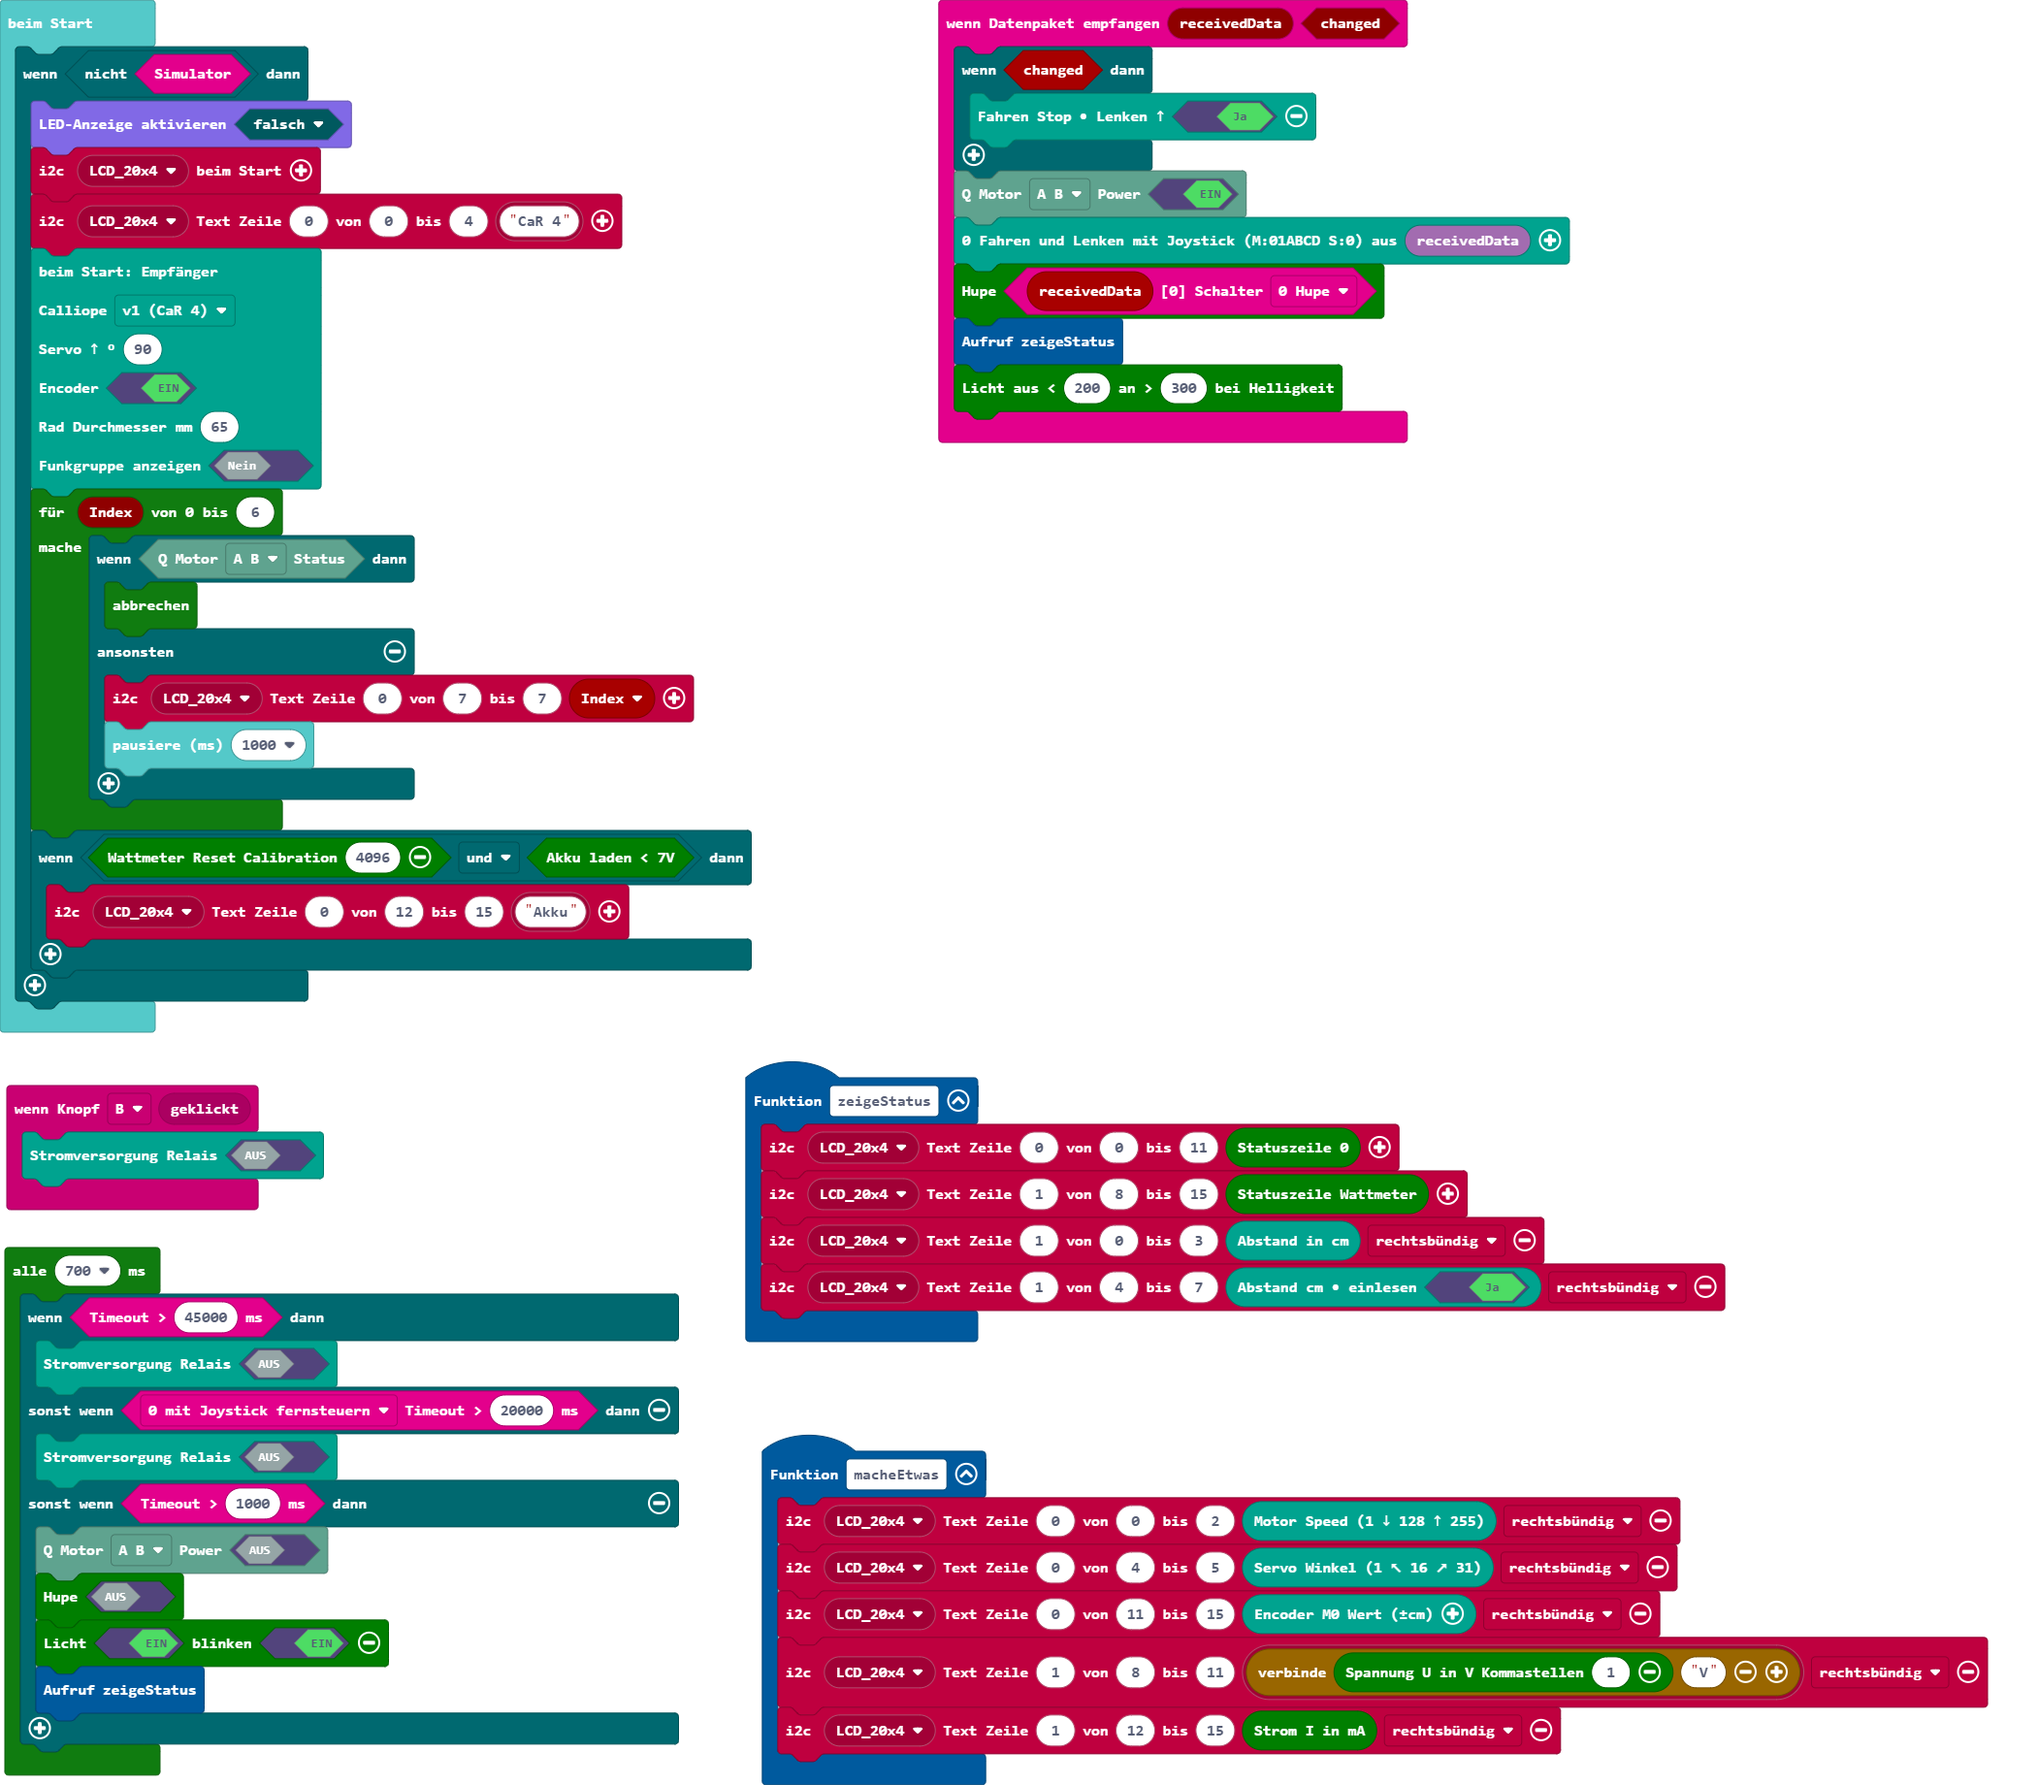
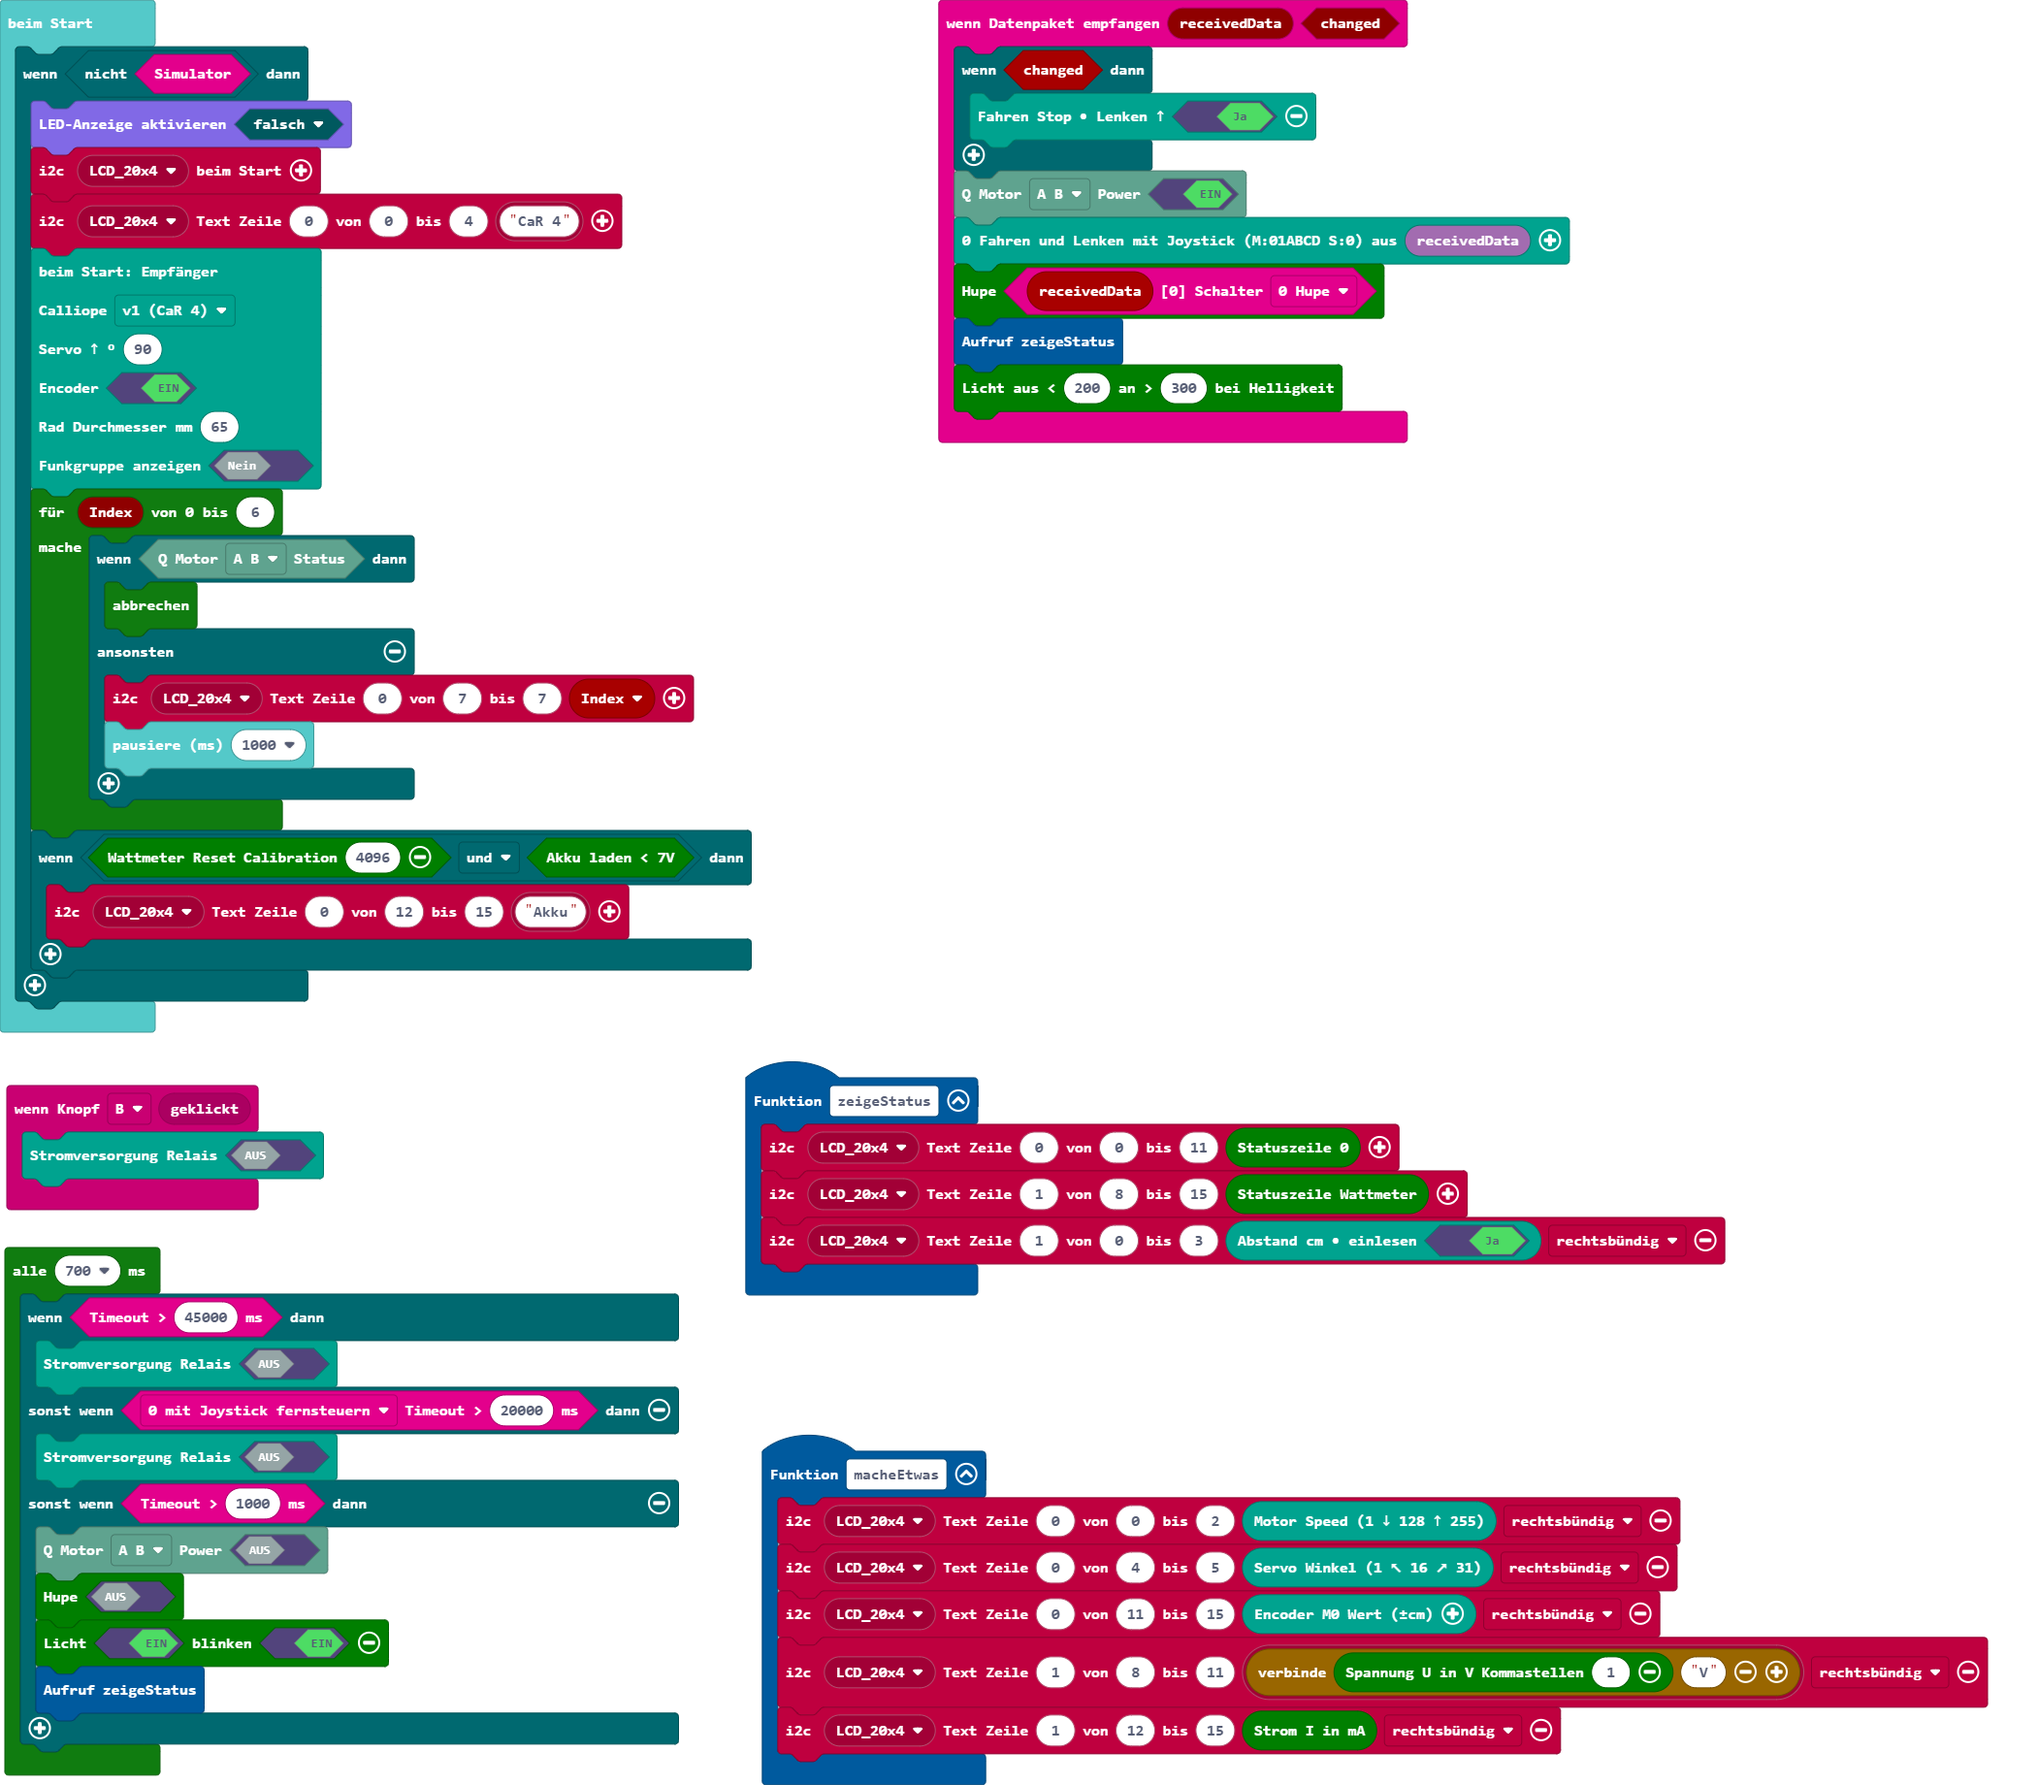
Aktualisiere main.blocks, main.ts

Changed region(s): [[0.3403, 0.6815, 0.8663, 0.7745]]

diff --git a/main.ts b/main.ts
@@ -8,8 +8,7 @@ function macheEtwas () {
 function zeigeStatus () {
     lcd20x4.writeText(lcd20x4.lcd20x4_eADDR(lcd20x4.eADDR.LCD_20x4), 0, 0, 11, car.statuszeile0())
     lcd20x4.writeText(lcd20x4.lcd20x4_eADDR(lcd20x4.eADDR.LCD_20x4), 1, 8, 15, car.statuszeilew())
-    lcd20x4.writeText(lcd20x4.lcd20x4_eADDR(lcd20x4.eADDR.LCD_20x4), 1, 0, 3, receiver.pinGroveUltraschall_cm(), lcd20x4.eAlign.right)
-    lcd20x4.writeText(lcd20x4.lcd20x4_eADDR(lcd20x4.eADDR.LCD_20x4), 1, 4, 7, receiver.selectAbstand_cm(true), lcd20x4.eAlign.right)
+    lcd20x4.writeText(lcd20x4.lcd20x4_eADDR(lcd20x4.eADDR.LCD_20x4), 1, 0, 3, receiver.selectAbstand_cm(true), lcd20x4.eAlign.right)
 }
 input.onButtonEvent(Button.B, input.buttonEventClick(), function () {
     receiver.pinRelay(false)
